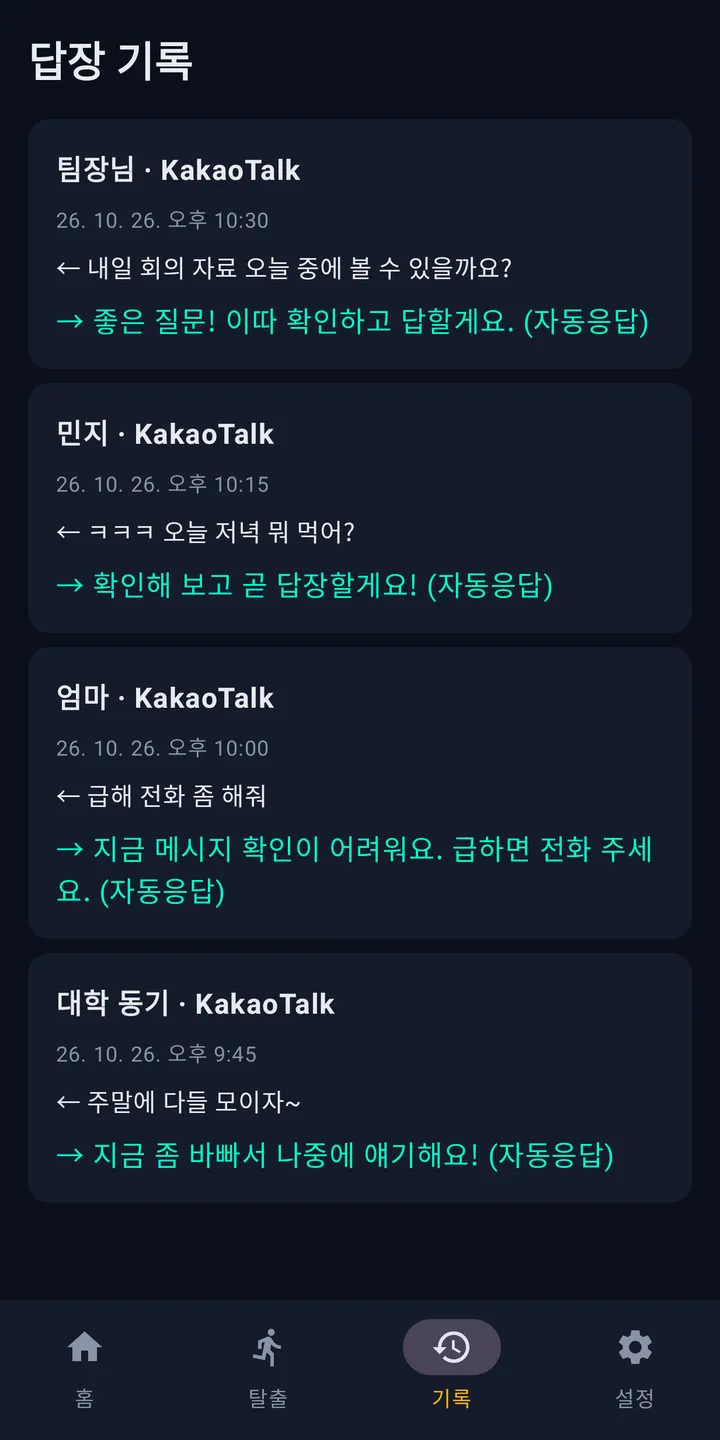
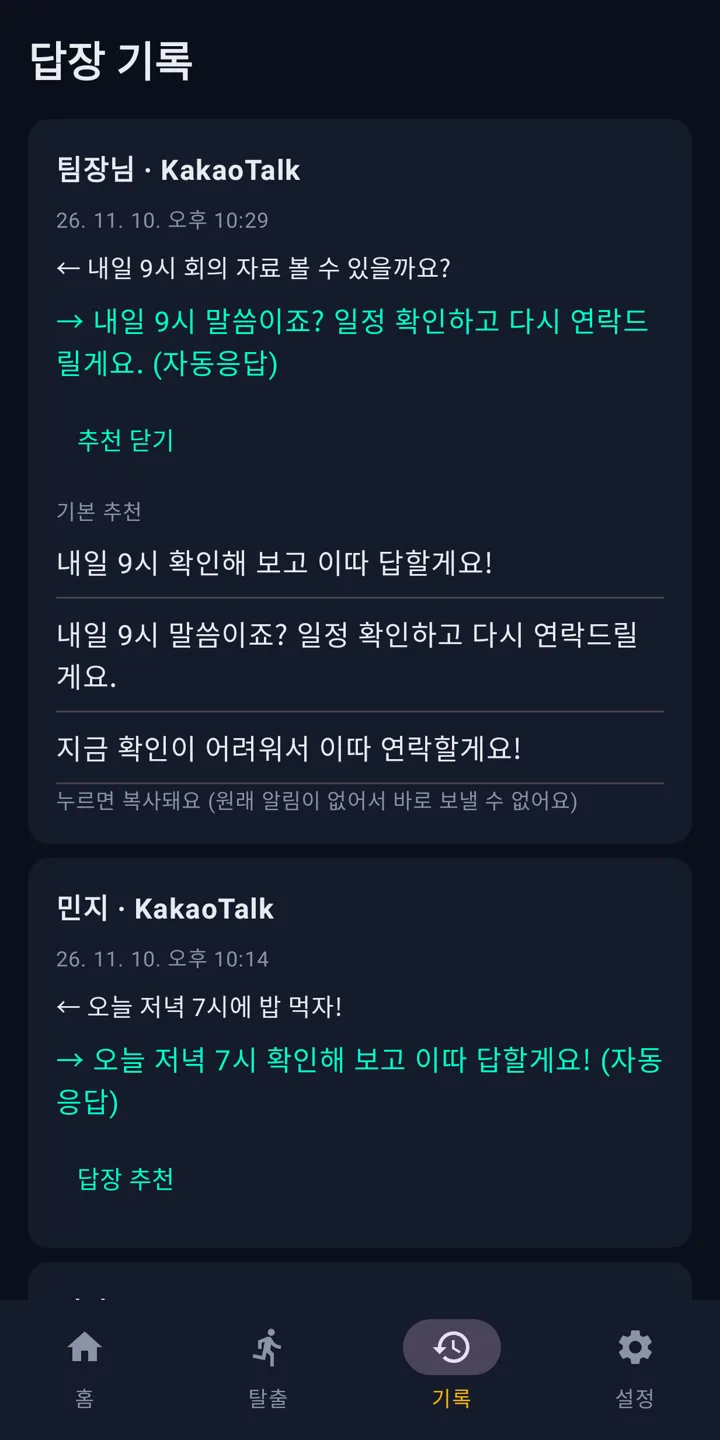
고스트 출시 반영·보도자료 (1/3)

Changed region(s): [[0.0611, 0.125, 0.9167, 0.8438], [0.3972, 0.7812, 0.8556, 0.8125]]

diff --git a/testers.html b/testers.html
@@ -3,14 +3,14 @@
 <head>
 <meta charset="utf-8">
 <meta name="viewport" content="width=device-width, initial-scale=1">
-<title>테스터 모집 — 라이프인덱스노트</title>
-<meta name="description" content="고스트 모드 Google Play 비공개 테스트 참여 방법">
+<title>테스트 종료 — 라이프인덱스노트</title>
+<meta name="description" content="칼퇴 디펜스와 고스트 모드가 Google Play에 정식 출시됐어요.">
 <link rel="icon" href="/favicon.svg" type="image/svg+xml">
 <link rel="icon" href="/favicon-32.png" sizes="32x32">
 <link rel="apple-touch-icon" href="/apple-touch-icon.png">
 <link rel="alternate" hreflang="en" href="https://lifeindexnote.com/en-testers">
-<meta property="og:title" content="테스터 모집 — 라이프인덱스노트">
-<meta property="og:description" content="고스트 모드 Google Play 비공개 테스트 참여 방법">
+<meta property="og:title" content="테스트 종료 — 라이프인덱스노트">
+<meta property="og:description" content="칼퇴 디펜스와 고스트 모드가 Google Play에 정식 출시됐어요.">
 <meta property="og:type" content="website">
 <meta property="og:image" content="https://lifeindexnote.com/og.png">
 <meta property="og:image:width" content="1200">
@@ -25,30 +25,17 @@
 <header class="top"><div class="wrap">
 <a class="brand" href="/"><img class="mark" src="/favicon.svg" alt="" width="30" height="30">Life Index Note</a>
 <nav class="main">
-<a class="hide-s" href="/kaltoe">칼퇴 디펜스</a><a class="hide-s" href="/ghostmode">고스트 모드</a><a class=" on" href="/testers">테스터 모집</a><a class="" href="/support">고객지원</a>
+<a class="hide-s" href="/kaltoe">칼퇴 디펜스</a><a class="hide-s" href="/ghostmode">고스트 모드</a><a class="" href="/press">보도자료</a><a class="" href="/support">고객지원</a>
 <a class="lang" href="/en-testers" hreflang="en">EN</a>
 </nav></div></header>
 <main>
 
 <div class="hero"><div class="wrap">
-<span class="pill">무료 · 14일</span>
-<h1>출시 전에 먼저 써 보세요</h1>
-<p class="lead">고스트 모드를 정식 출시 전에 무료로 먼저 써 보고 의견을 들려주세요. 칼퇴 디펜스는 이미 <a href="https://play.google.com/store/apps/details?id=com.jeric.kaltoedefense">Google Play에 출시</a>됐어요.</p>
+<span class="pill">테스트 종료</span>
+<h1>두 앱 모두 정식 출시했어요</h1>
+<p class="lead">비공개 테스트에 참여해 주신 분들 덕분에 무사히 출시했어요. 감사합니다. 이제 Google Play에서 바로 받을 수 있어요.</p>
+<div class="btns"><a class="btn pri" href="https://play.google.com/store/apps/details?id=com.jeric.kaltoedefense">칼퇴 디펜스</a><a class="btn pri" href="https://play.google.com/store/apps/details?id=com.jeric.ghostmode">고스트 모드</a></div>
 </div></div>
-<section><div class="wrap"><h2 class="sec">참여 방법</h2><p class="sub">Android 폰과 Google 계정만 있으면 돼요. 2분이면 끝나요.</p>
-<ol class="steps">
-<li><b>Google 그룹 가입</b>테스트에 쓸 Google 계정으로 <a href="https://groups.google.com/g/kaltoe-defense-testers">테스터 그룹</a>에 가입하세요.</li>
-<li><b>테스트 참여 신청</b>아래 링크에서 '테스터 되기'를 누르세요.<br><a href="https://play.google.com/apps/testing/com.jeric.ghostmode">고스트 모드 참여</a></li>
-<li><b>Play 스토어에서 설치</b>참여 화면의 Google Play 링크로 설치하세요. 반영까지 몇 분 걸릴 수 있어요.</li>
-<li><b>14일 동안 지우지 않기</b>가끔 열어서 써 보고, 불편한 점은 Play 스토어 '비공개 의견'이나 메일로 알려 주세요.</li>
-</ol></div></section>
-<section class="soft"><div class="wrap"><h2 class="sec">자주 묻는 질문</h2>
-<details><summary>돈이 드나요?</summary><p>아니요. 설치와 테스트는 무료예요. 앱 안의 유료 상품은 실제 결제되니 필요할 때만 구매하세요.</p></details>
-<details><summary>'앱을 찾을 수 없음'이 떠요</summary><p>그룹 가입과 참여 신청에 쓴 Google 계정이 Play 스토어 계정과 같은지 확인하고, 몇 분 뒤 다시 시도해 주세요.</p></details>
-<details><summary>아이폰도 되나요?</summary><p>지금은 Android만 지원해요.</p></details>
-<details><summary>테스트를 그만두고 싶어요</summary><p>참여 링크에서 '테스트 그만두기'를 누르고 앱을 삭제하면 돼요.</p></details>
-<p class="sub" style="margin-top:20px">문의: <a href="mailto:support@lifeindexnote.com">support@lifeindexnote.com</a></p>
-</div></section>
 </main>
 <footer><div class="wrap cols">
 <div><h5>회사</h5><dl class="biz"><dt>상호</dt><dd>라이프인덱스노트 (Life Index Note)</dd>

diff --git a/style.css b/style.css
@@ -54,6 +54,8 @@ footer .cols{display:grid;gap:24px;grid-template-columns:2fr 1fr 1fr}
 @media (max-width:760px){footer .cols{grid-template-columns:1fr}}
 footer h5{margin:0 0 8px;color:var(--fg);font-size:14px}footer ul{list-style:none;margin:0;padding:0}footer li{margin:4px 0}footer a{color:var(--mut)}
 .doc{max-width:780px;padding:48px 20px 72px}
+.facts{display:grid;grid-template-columns:120px 1fr;gap:6px 16px;margin:16px 0;font-size:15px}.facts dt{color:var(--mut)}.facts dd{margin:0}
+.doc img{max-width:100%;height:auto;margin:10px 0}
 .doc h1{font-size:30px;letter-spacing:-.02em;margin:0 0 6px}
 .doc h2{font-size:20px;margin:36px 0 8px;padding-top:14px;border-top:1px solid var(--ln)}
 .doc table{width:100%;border-collapse:collapse;margin:10px 0;font-size:14px}.doc th,.doc td{border:1px solid var(--ln);padding:8px 10px;text-align:left;vertical-align:top}.doc th{background:var(--soft)}

diff --git a/support.html b/support.html
@@ -25,7 +25,7 @@
 <header class="top"><div class="wrap">
 <a class="brand" href="/"><img class="mark" src="/favicon.svg" alt="" width="30" height="30">Life Index Note</a>
 <nav class="main">
-<a class="hide-s" href="/kaltoe">칼퇴 디펜스</a><a class="hide-s" href="/ghostmode">고스트 모드</a><a class="" href="/testers">테스터 모집</a><a class=" on" href="/support">고객지원</a>
+<a class="hide-s" href="/kaltoe">칼퇴 디펜스</a><a class="hide-s" href="/ghostmode">고스트 모드</a><a class="" href="/press">보도자료</a><a class=" on" href="/support">고객지원</a>
 <a class="lang" href="/en-support" hreflang="en">EN</a>
 </nav></div></header>
 <main>
